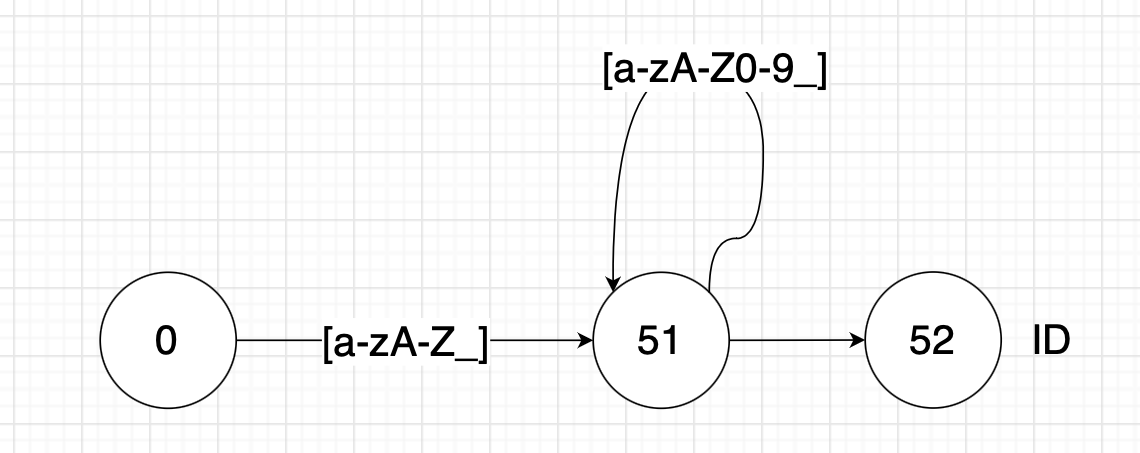
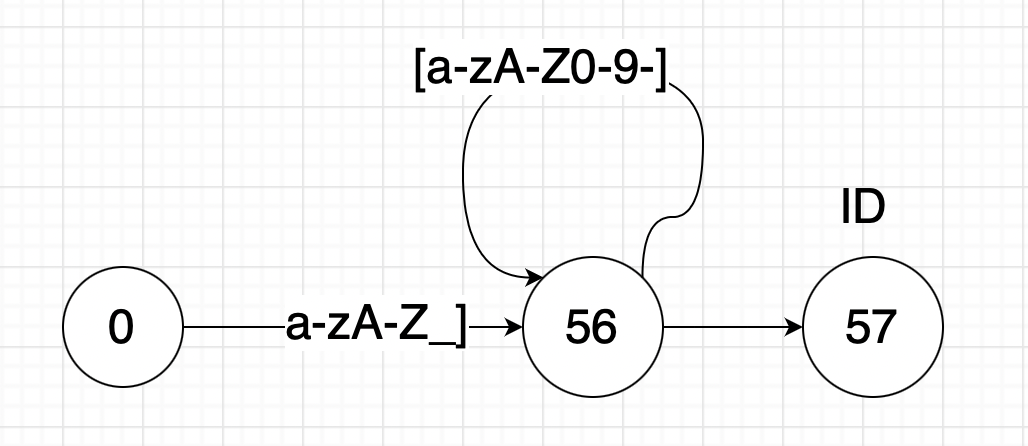
Made some more modifcations

diff --git a/src/LexicalAnalyzer.cpp b/src/LexicalAnalyzer.cpp
@@ -82,6 +82,13 @@ int LexicalAnalyzer::get_next_token() {
 						i++;
 						state = 28;
 					}
+					else if(given_text[i] == '*') {
+						++i;
+						state = 29;
+					}
+					else {
+						return DIV;
+					}
 				}
 				else if(given_text[i] == '.') {
 					i++;
@@ -140,22 +147,67 @@ int LexicalAnalyzer::get_next_token() {
 					i++;
 					state = 32;
 				}
-				else if(given_text[i] == '\'') {
+				else if(given_text[i] == '=') {
 					i++;
-					if(given_text[i] != '\'') {
-						i++;
+					if(given_text[i] == '=') {
+						++i;
+						return EQUAL;
 					}
 					else {
-						i++;
-						return 47;
+						return ASSIGN;
 					}
 				}
+				else if(given_text[i] == '\'') {
+					i++;
+					if(given_text[i] == '\\') {
+						++i;
+						state = 49;
+					}
+					else if(given_text[i] != '\\' && given_text[i] != '\'') {
+						++i;
+						state = 50;
+					}
+				}
+				else if(given_text[i] == '"') {
+					++i;
+					state = 52;
+				}
 				else if (isalpha(given_text[i]) || given_text[i] == '_'){
-					state = 51;
+					state = 56;
 					start = i++;
 				}
 				break;
 			case(28):
+				if(given_text[i] != '\n' && given_text[i] != '\r'
+					&& given_text[i] != '\0') {
+					
+					++i;
+				}
+				else {
+					state = 0;
+				}
+				break;
+			case(29):
+				if(given_text[i] == '*') {
+					i++;
+					state = 30;
+				}
+				else {
+					i++;
+				}
+				break;
+			case(30):
+				if(given_text[i] != '*' && given_text[i] != '/') {
+					++i;
+					state = 29;
+				}
+				else if(given_text[i] == '*') {
+					++i;
+				}
+				else if(given_text[i] == '/'){
+					++i;
+					state = 0;
+				}
 				break;
 			case(31):
 				if(isdigit(given_text[i]) && given_text[i] <= '7') {
@@ -294,12 +346,65 @@ int LexicalAnalyzer::get_next_token() {
 				break;
 			case(CT_REAL):
 				return CT_REAL;
-			case(51):
+			case(49):
+				if(given_text[i] == 'a' || given_text[i] == 'b' ||
+					given_text[i] == '?' || given_text[i] == 'f'||
+					given_text[i] == 'n' || given_text[i] == 'n' ||
+					given_text[i] == 't' || given_text[i] == 'v' ||
+					given_text[i] == '"' || given_text[i] == '\\' ||
+					given_text[i] == '\0') {
+
+					++i;
+					state = 50;
+				}
+				break;
+			case 50:
+				if(given_text[i] == '\'') {
+					++i;
+					state = CT_CHAR;
+				}
+				break;
+			case(52):
+				if(given_text[i] == '\\') {
+					i++;
+					state = 53;
+				}
+				else if(given_text[i] != '"') {
+					++i;
+					state = 54;
+				}
+				break;
+			case(53):
+				if(given_text[i] == 'a' || given_text[i] == 'b' ||
+					given_text[i] == '?' || given_text[i] == 'f'||
+					given_text[i] == 'n' || given_text[i] == 'n' ||
+					given_text[i] == 't' || given_text[i] == 'v' ||
+					given_text[i] == '"' || given_text[i] == '\\' ||
+					given_text[i] == '\0') {
+
+					++i;
+					state = 54;
+				}
+				break;
+			case(54):
+				if(given_text[i] == '"') {
+					++i;
+					state  = CT_STRING;
+				}
+				else {
+					state = 52;
+				}
+				break;
+			case(CT_CHAR):
+				return CT_CHAR;
+			case(CT_STRING):
+				return CT_STRING;
+			case(56):
 				if (isalnum(given_text[i]) || given_text[i] == '_'){
 					i++;
 				}
 				else {
-					state = 52;
+					state = ID;
 				}
 				break;
 			case(ID):

diff --git a/include/LexicalAnalyzer.hpp b/include/LexicalAnalyzer.hpp
@@ -12,7 +12,8 @@ private:
         	COMMA = 1, SEMICOLON = 2, LPAR = 3, RPAR = 4, LBRACKET = 5, RBRACKET = 6,
             LACC = 7, RACC = 8, ADD = 9, SUB = 10, MUL = 11, DOT = 13, AND = 15, OR = 17,
             NOTEQ = 19, NOT = 20, LESSEQ = 22, LESS = 23, GREATEREQ = 25,
-            GREATER = 26, CT_INT = 36, CT_REAL = 44, CT_CHAR, CT_STRING, ID = 52, END = -1,
+            GREATER = 26, DIV = 27,  CT_INT = 36, CT_REAL = 44, EQUAL = 46, ASSIGN = 47, CT_CHAR = 51,
+            CT_STRING = 55, ID = 57, END = -1,
             BREAK = 60, CHAR = 61, DOUBLE = 62, ELSE = 63, FOR = 64, INT = 65, IF = 66,
             RETURN = 67, STRUCT = 68, VOID = 69, WHILE = 70
     };

diff --git a/src/main.cpp b/src/main.cpp
@@ -12,7 +12,7 @@
 int main() {
 
     std::cout << "Print something so that I know my script is working!\n";
-    auto arr = utils::read_file("../testing_files/ID.txt");
+    auto arr = utils::read_file("../testing_files/block_comment.txt");
 
     int i = 0;
     for(auto const &x: arr) {
